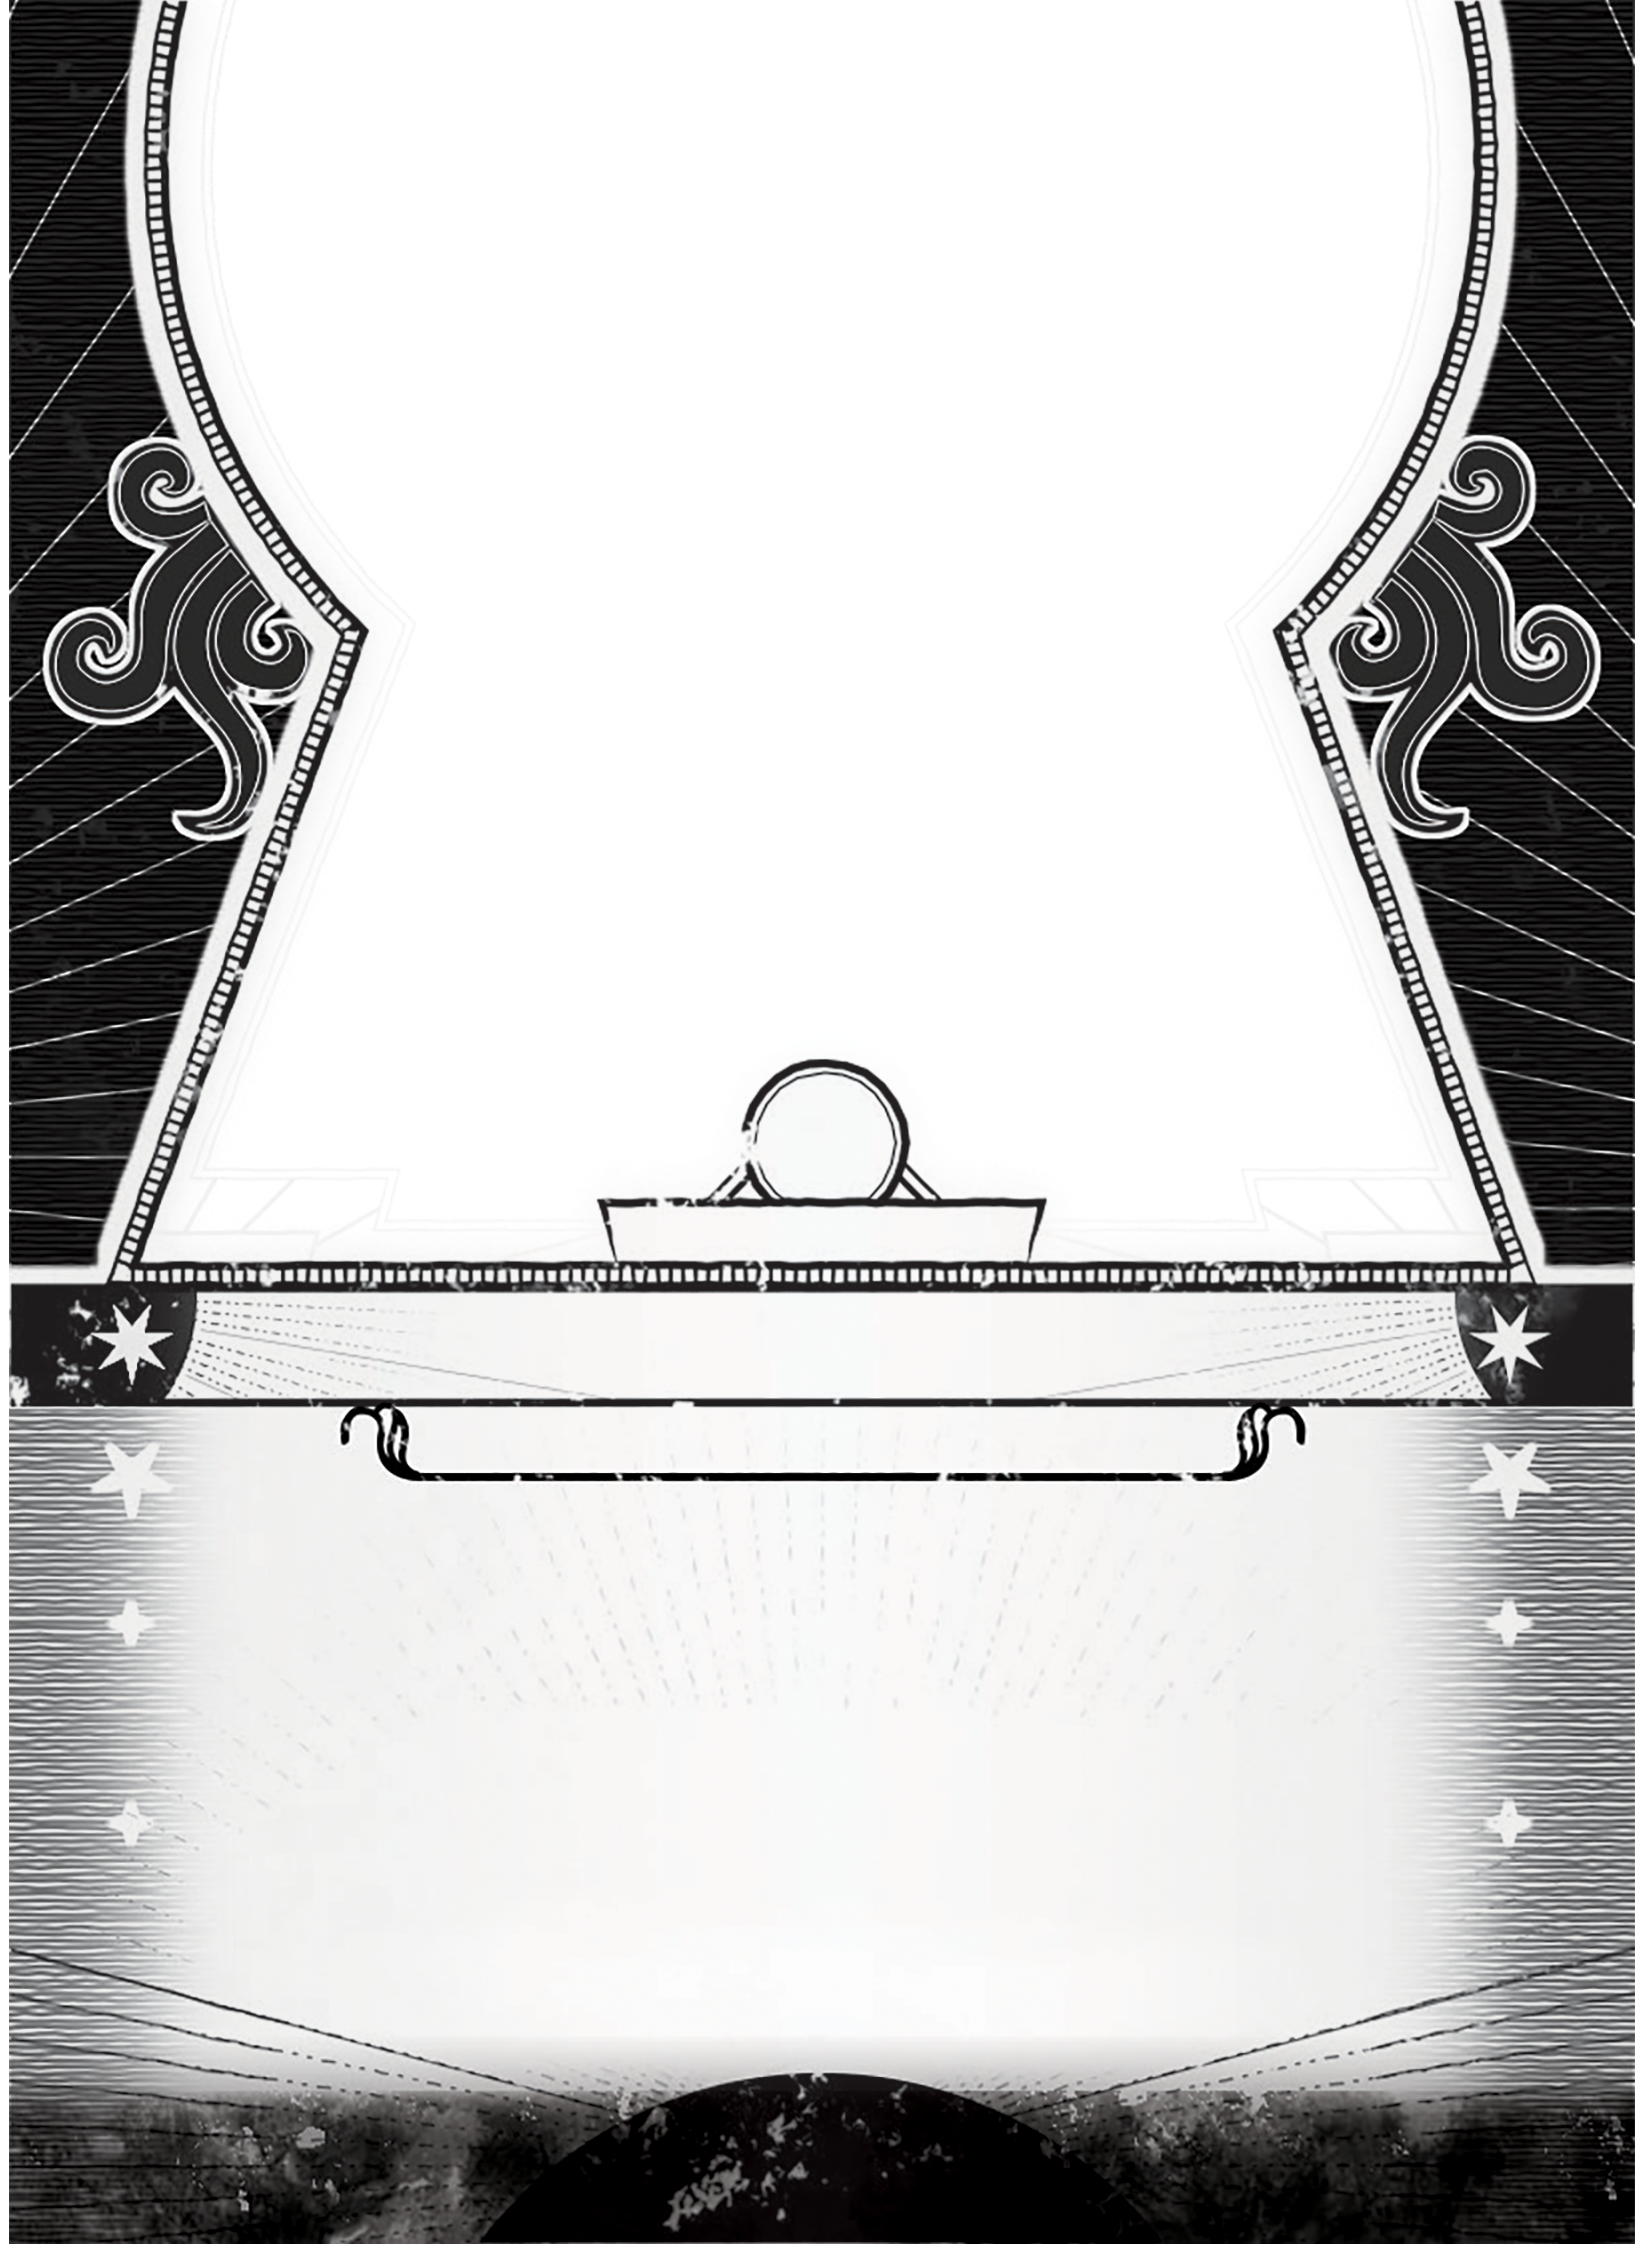
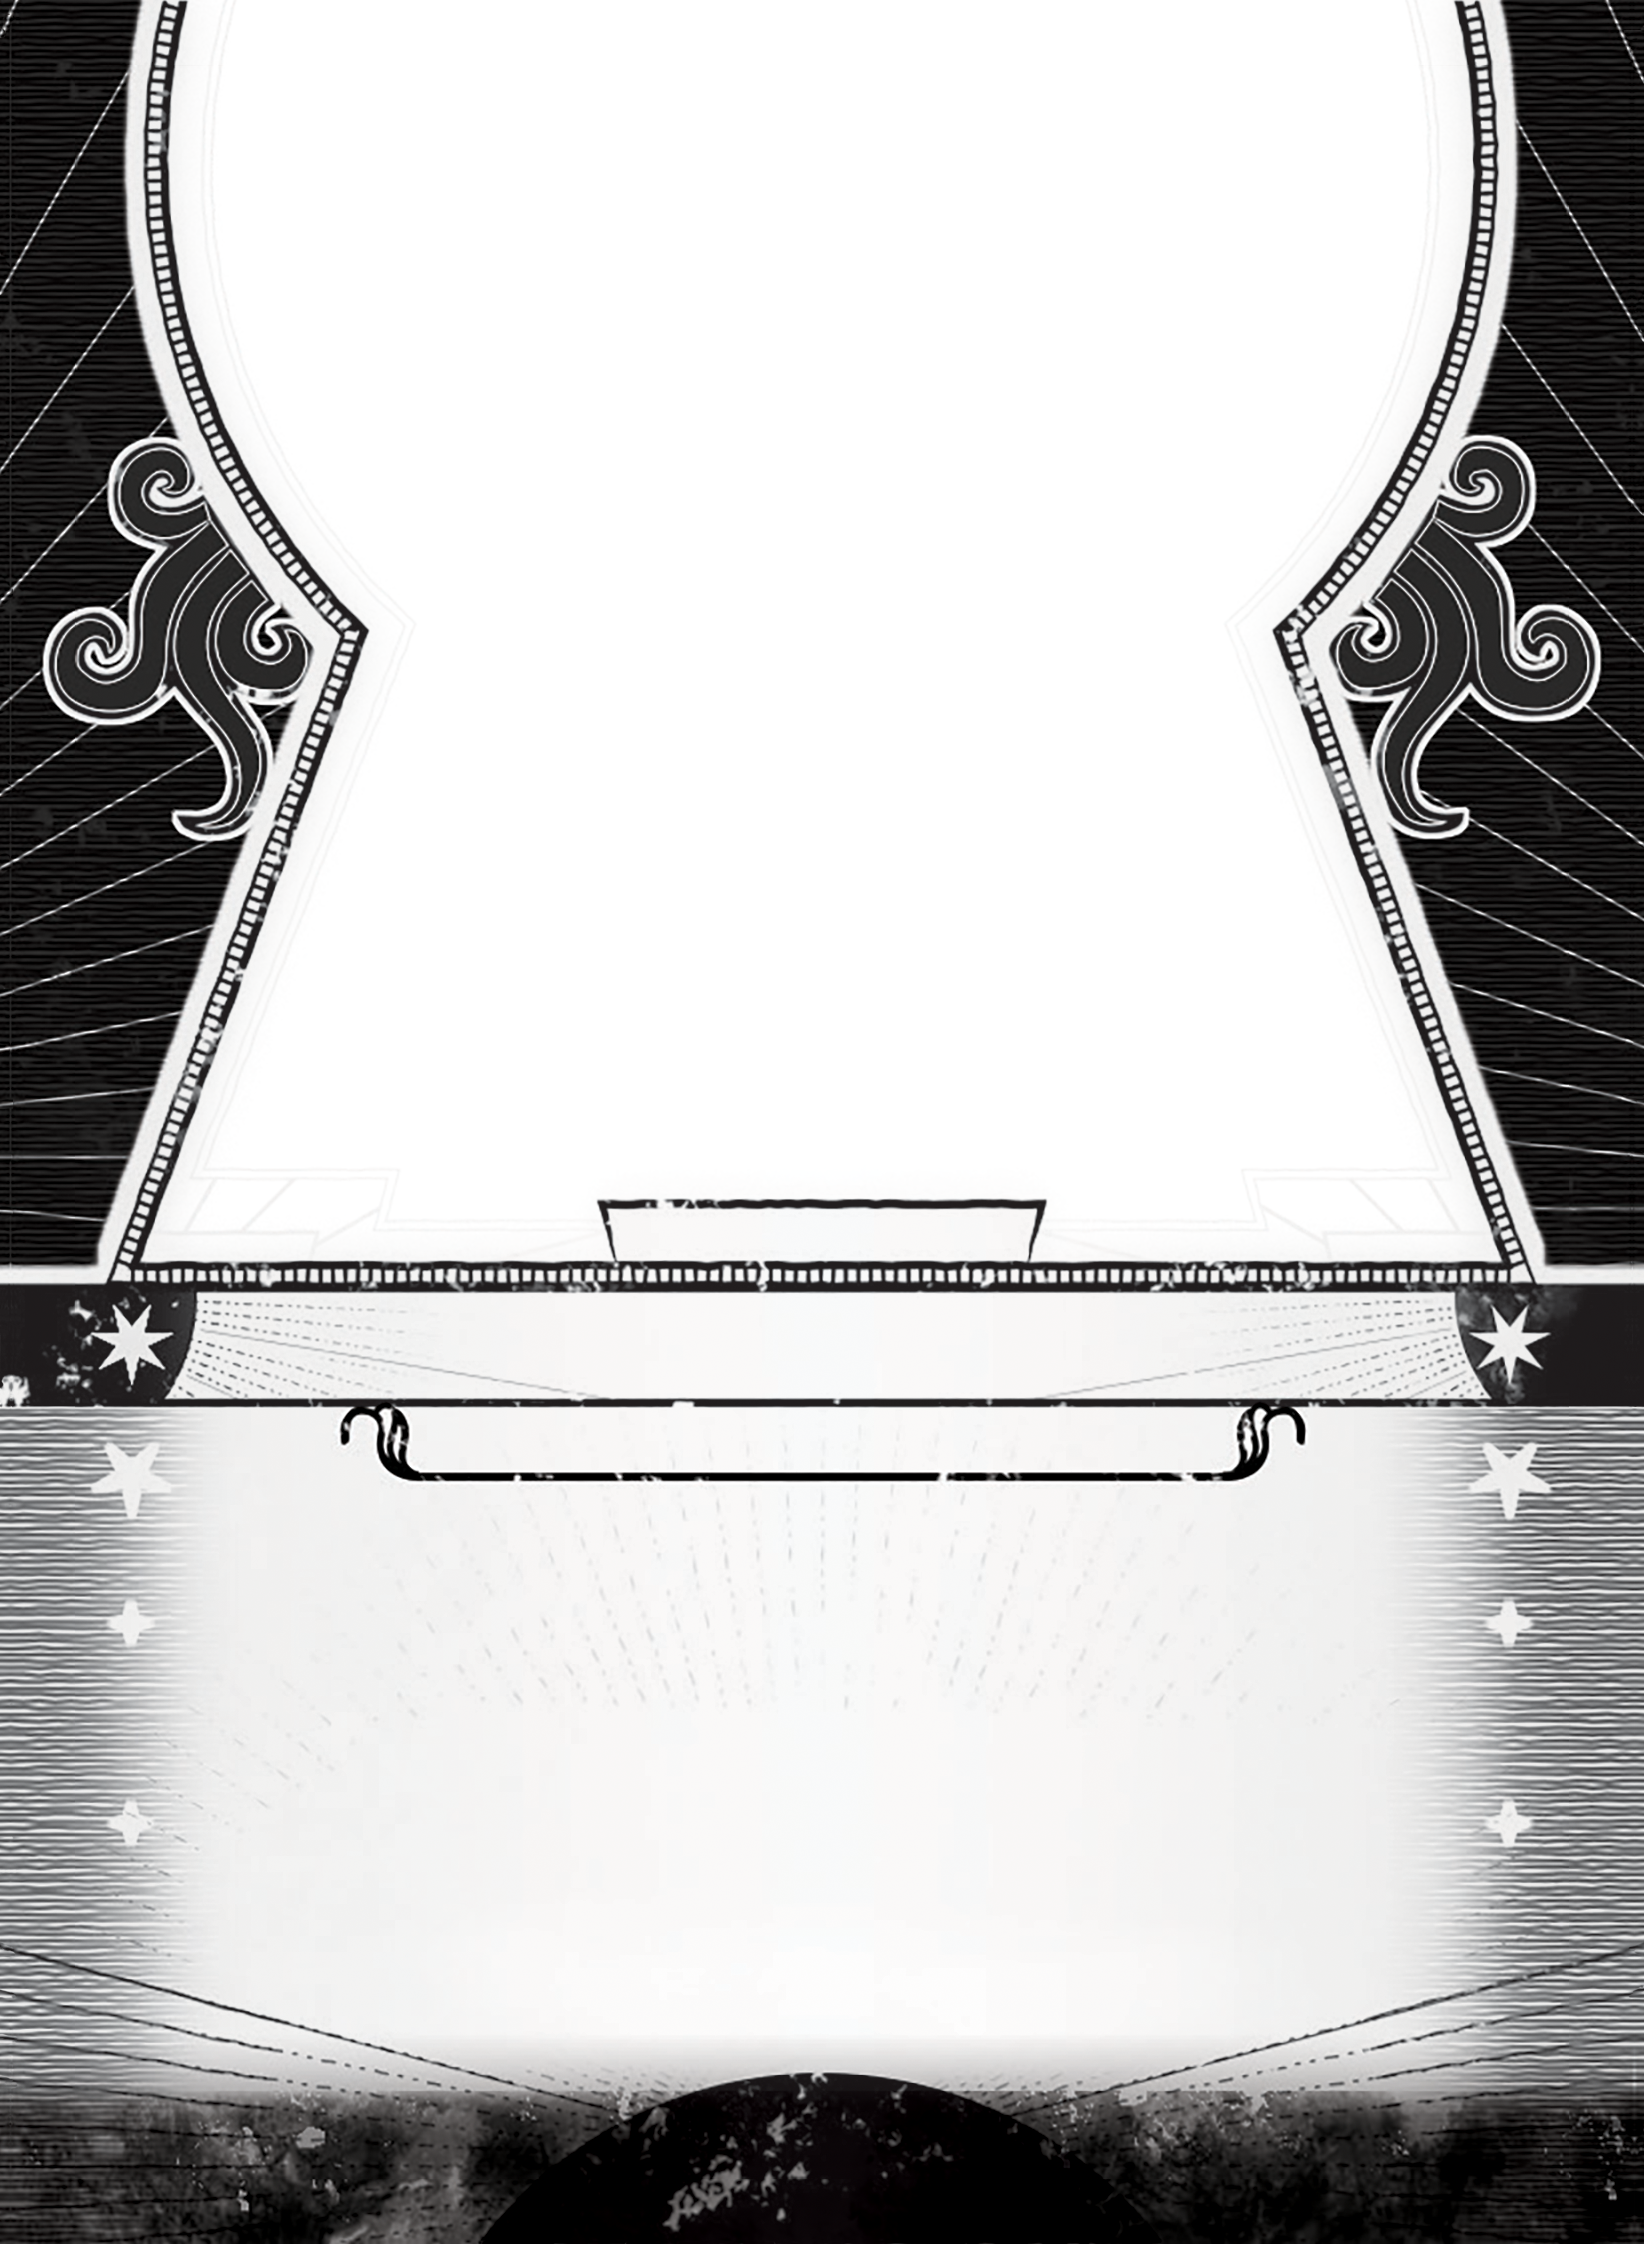
Painting - Add treachery template with encounter circle. Update non-encounter treachery weakness template

diff --git a/src/main/java/com/mickeytheq/hades/core/view/cardfaces/TreacheryView.java b/src/main/java/com/mickeytheq/hades/core/view/cardfaces/TreacheryView.java
@@ -18,9 +18,6 @@ import java.util.List;
 
 @View(interfaceLanguageKey = InterfaceConstants.TREACHERY)
 public class TreacheryView extends BaseCardFaceView<Treachery> implements HasCollectionView, HasEncounterSetView {
-    private static final String STANDARD_TEMPLATE_RESOURCE_PREFIX = "/templates/treachery/treachery";
-    private static final String WEAKNESS_TEMPLATE_RESOURCE_PREFIX = "/templates/treachery/treachery_weakness";
-
     private JComboBox<WeaknessType> weaknessTypeEditor;
     private CommonCardFieldsView commonCardFieldsView;
     private EncounterSetView encounterSetView;
@@ -97,11 +94,15 @@ public class TreacheryView extends BaseCardFaceView<Treachery> implements HasCol
 
     @Override
     protected List<TemplateInfo> getAvailableTemplateInfos() {
-        String resourcePathPrefix;
+        String resourcePathPrefix = "/templates/treachery/treachery";
+
+        WeaknessType weaknessType = getModel().getTreacheryFieldsModel().getWeaknessType();
+
         if (getModel().getTreacheryFieldsModel().getWeaknessType() != null) {
-            resourcePathPrefix = WEAKNESS_TEMPLATE_RESOURCE_PREFIX;
-        } else {
-            resourcePathPrefix = STANDARD_TEMPLATE_RESOURCE_PREFIX;
+            resourcePathPrefix = resourcePathPrefix + "_weakness";
+
+            if (weaknessType == WeaknessType.Basic || weaknessType == WeaknessType.Story)
+                resourcePathPrefix = resourcePathPrefix + "_encounter";
         }
 
         return TemplateInfos.createStandard300And600(resourcePathPrefix, CardFaceOrientation.Portrait);
@@ -141,9 +142,6 @@ public class TreacheryView extends BaseCardFaceView<Treachery> implements HasCol
     }
 
     private void paintWeaknessContent(PaintContext paintContext) {
-        // draw the weakness overlay
-        // this is the circular area either the standard basic weakness icon goes in or the encounter icon
-        // for story weaknesses
         WeaknessType weaknessType = getModel().getTreacheryFieldsModel().getWeaknessType();
 
         if (weaknessType == WeaknessType.Basic || weaknessType == WeaknessType.Story) {

diff --git a/src/main/java/com/mickeytheq/hades/scratchpad/QuickCardView.java b/src/main/java/com/mickeytheq/hades/scratchpad/QuickCardView.java
@@ -72,12 +72,12 @@ public class QuickCardView {
 //            asset();
 //        event();
 //        skill();
-//        treachery();
+        treachery();
 //            location();
 //            random();
 //            agenda();
 //            act();
-            enemy();
+//            enemy();
 //            scenarioReference();
 //            story();
         });

diff --git a/src/main/java/com/mickeytheq/hades/core/model/common/WeaknessType.java b/src/main/java/com/mickeytheq/hades/core/model/common/WeaknessType.java
@@ -1,5 +1,7 @@
 package com.mickeytheq.hades.core.model.common;
 
 public enum WeaknessType {
-    Basic, Investigator, Story
+    Basic,
+    Investigator, // note that this type is primarily used for investigator signature weaknesses but also applies to the odd player card, see https://arkhamdb.com/card/06025
+    Story
 }
